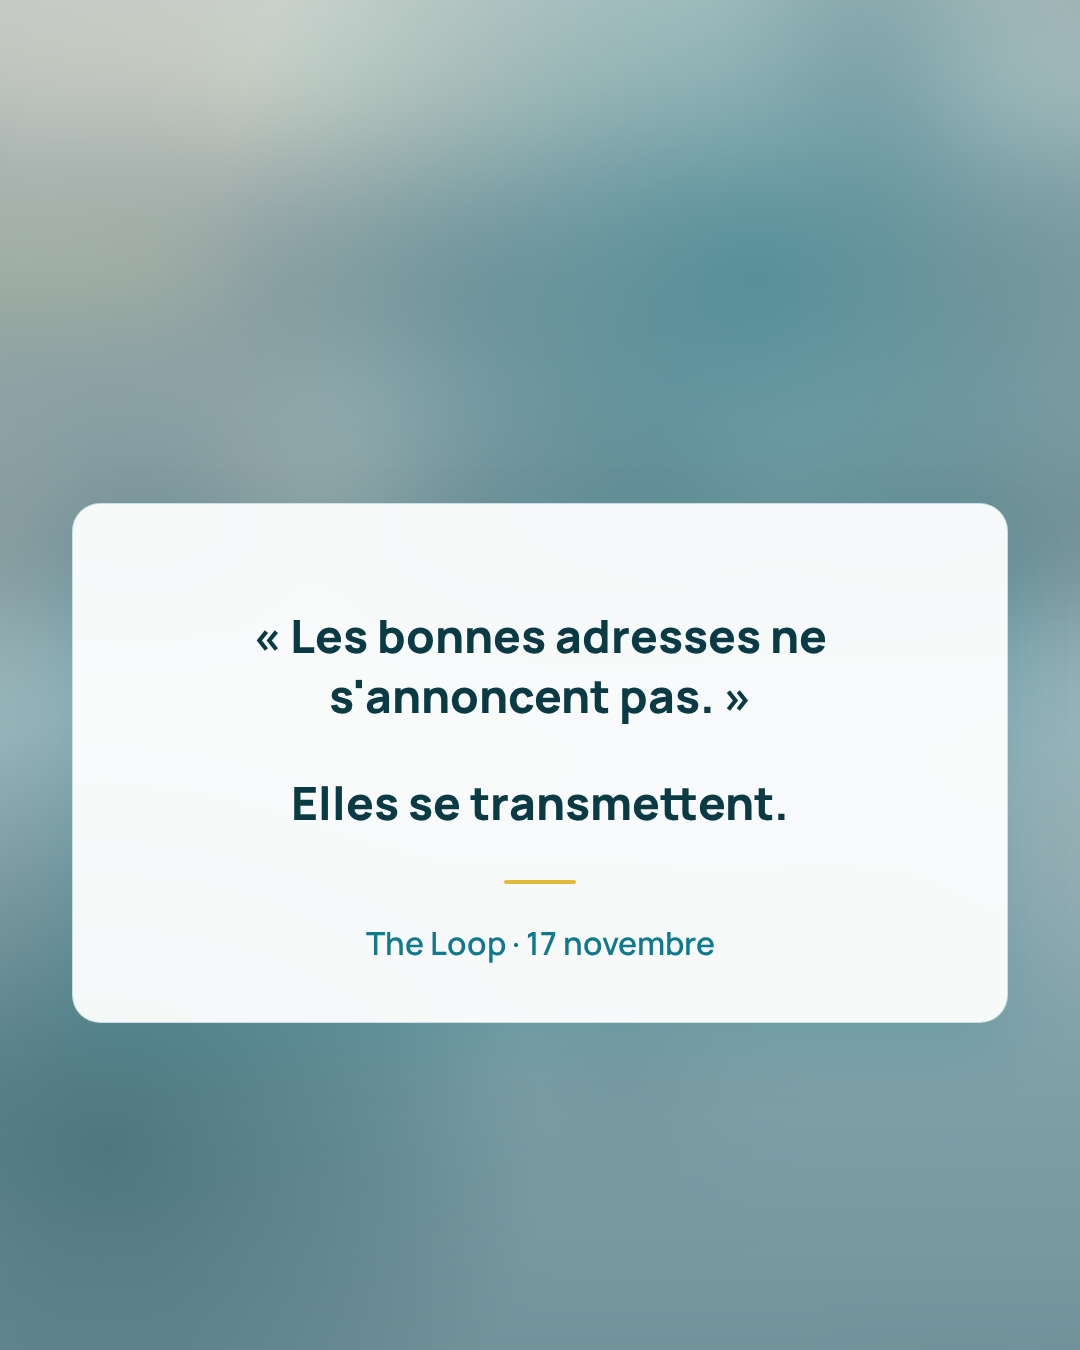
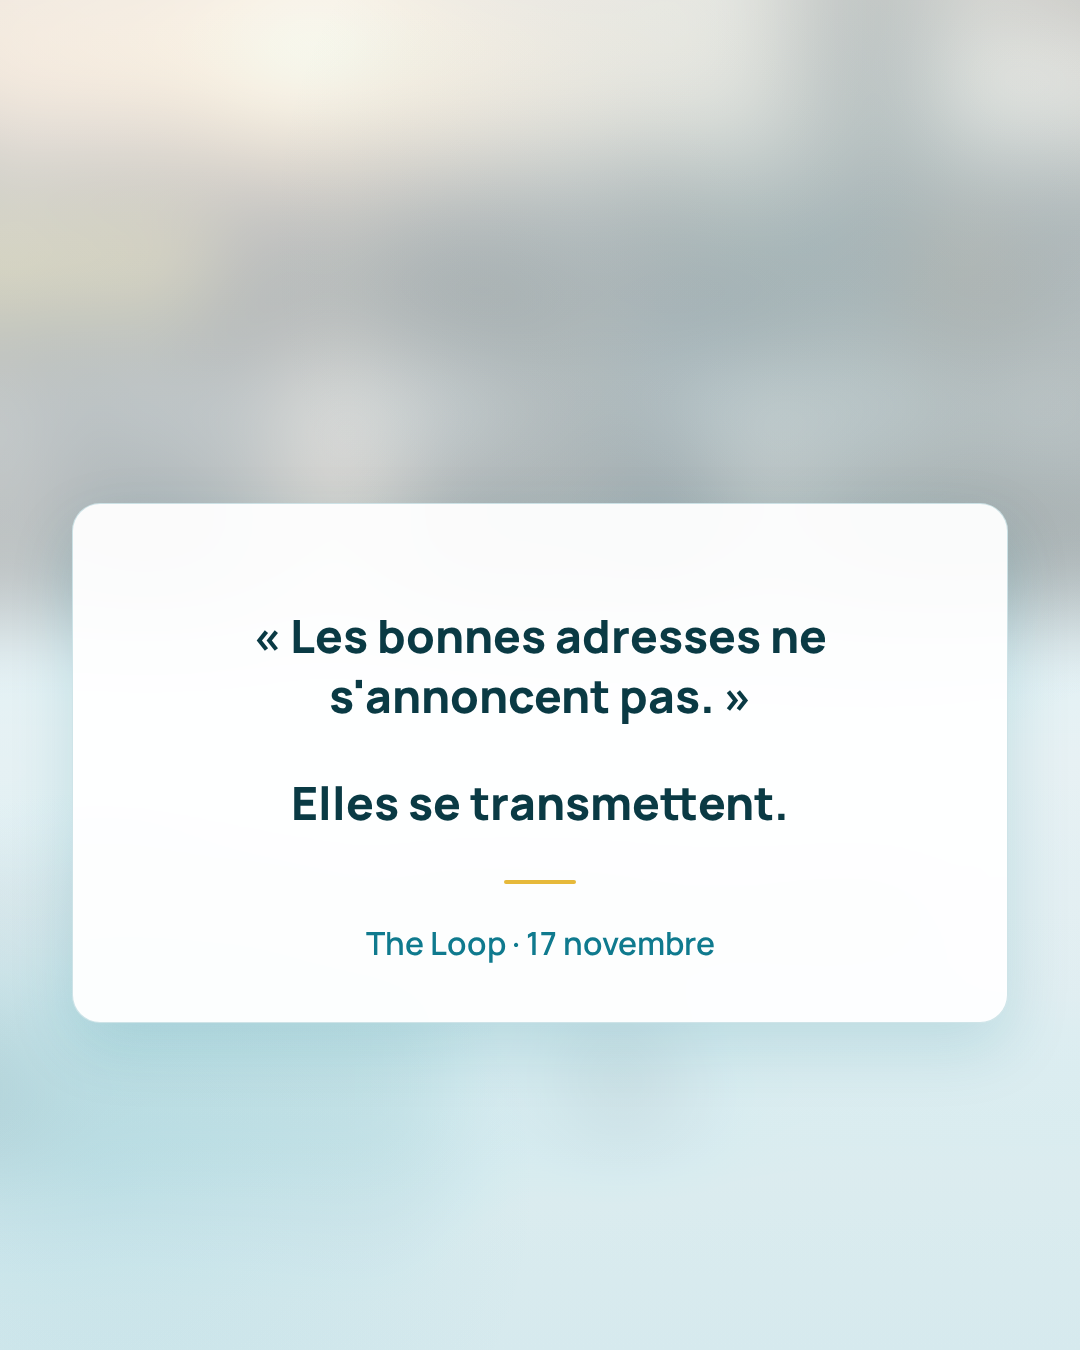
docs(com): fond texte N1 micro-assombrissement teal

diff --git a/docs/communication/lancement-2026/export-visuels-pack-acte-a-v4-light.html b/docs/communication/lancement-2026/export-visuels-pack-acte-a-v4-light.html
@@ -24,8 +24,8 @@
       margin: 0 auto 16px;
       position: relative;
       overflow: hidden;
-      /* Niveau 1 adouci · teal discret */
-      background: linear-gradient(180deg, #f6fafb 0%, #eef4f6 50%, #e6eef0 100%);
+      /* N1 adouci + léger renfort teal (micro-assombrissement) */
+      background: linear-gradient(180deg, #f4f9fa 0%, #ecf3f6 48%, #dceef2 100%);
       color: var(--deep);
     }
     .c.reel { height: 1920px; }
@@ -34,15 +34,15 @@
       position: absolute;
       inset: -20%;
       background: url('assets/capture-accueil-2.jpg') center 20% / cover no-repeat;
-      filter: blur(48px) saturate(0.65) brightness(1.12) hue-rotate(0deg);
-      opacity: 0.28;
+      filter: blur(48px) saturate(0.78) brightness(1.08) hue-rotate(-2deg);
+      opacity: 0.32;
     }
     .atmo-teal {
       position: absolute;
       inset: 0;
-      background: radial-gradient(ellipse 90% 70% at 75% 18%, rgba(15,122,142,0.08), transparent 58%),
-        radial-gradient(ellipse 80% 60% at 10% 88%, rgba(21,150,173,0.06), transparent 52%),
-        linear-gradient(180deg, rgba(255,255,255,0.15) 0%, rgba(15,122,142,0.05) 100%);
+      background: radial-gradient(ellipse 90% 70% at 75% 18%, rgba(15,122,142,0.11), transparent 56%),
+        radial-gradient(ellipse 80% 60% at 10% 88%, rgba(21,150,173,0.09), transparent 50%),
+        linear-gradient(180deg, rgba(255,255,255,0.12) 0%, rgba(15,122,142,0.08) 100%);
       pointer-events: none;
       z-index: 1;
     }
@@ -65,9 +65,9 @@
       border-radius: 50%;
       filter: blur(2px);
     }
-    .blob.a { width: 480px; height: 480px; background: rgba(15,122,142,0.07); top: -100px; right: -120px; }
-    .blob.b { width: 320px; height: 320px; background: rgba(21,150,173,0.06); bottom: 180px; left: -80px; }
-    .blob.c { width: 220px; height: 220px; background: rgba(15,122,142,0.05); top: 42%; left: 52%; }
+    .blob.a { width: 480px; height: 480px; background: rgba(15,122,142,0.1); top: -100px; right: -120px; }
+    .blob.b { width: 320px; height: 320px; background: rgba(21,150,173,0.08); bottom: 180px; left: -80px; }
+    .blob.c { width: 220px; height: 220px; background: rgba(15,122,142,0.07); top: 42%; left: 52%; }
     .inner {
       position: relative;
       z-index: 2;

diff --git a/docs/communication/lancement-2026/CHARTE-FOND-TEXTE.md b/docs/communication/lancement-2026/CHARTE-FOND-TEXTE.md
@@ -7,7 +7,7 @@
 
 ## Fichier source (version validée)
 - HTML : `export-visuels-pack-acte-a-v4-light.html`
-- **Style :** dégradé **niveau 1 adouci** (`#f6fafb → #eef4f6 → #e6eef0`) + atmo très légère + carte blanche + squelettes.
+- **Style :** **N1 adouci + micro-teal** (`#f4f9fa → #ecf3f6 → #dceef2`) + atmo légère + carte blanche + squelettes.
 
 ## Pourquoi tous les visuels changent en même temps ?
 Un seul fichier **`export-visuels-pack-acte-a-v4-light.html`** contient **3 slides** (3/11 feed, Reels, 5/11). Quand on modifie le **fond** (CSS) et qu’on lance `export-slides-png-v4.mjs`, les PNG **`01_`, `02_`, `03_`** sont **regénérés** — même fond sur tout le pack.  
